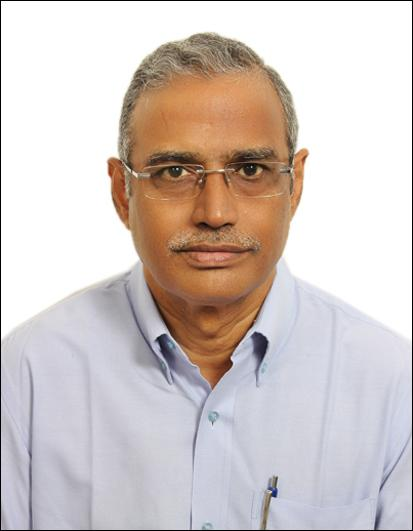
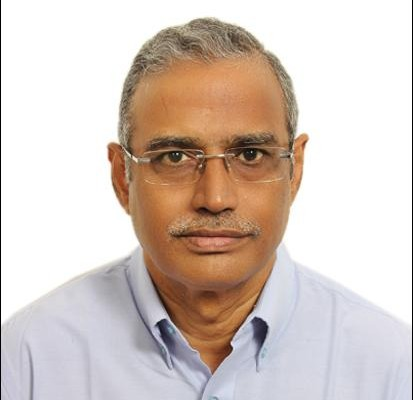
image and email corrections

diff --git a/src/app/shared/footer/footer.component.html b/src/app/shared/footer/footer.component.html
@@ -3,7 +3,7 @@
     <div>
       <h3>Nandamuri Basavarama Tarakam NTR Charitable Trust</h3>
       <p>Working towards education, healthcare, and community welfare.</p>
-      <p><strong>Email:</strong> <a href="mailto:nbtrncharitabletrust&#64;gmail.com">nbtrncharitabletrust&#64;gmail.com</a></p>
+      <p><strong>Email:</strong> <a href="mailto:nbrntrcharitabletrust&#64;gmail.com">nbrntrcharitabletrust&#64;gmail.com</a></p>
       <p><strong>Phone:</strong> <a href="tel:+918019549236">+91 80195 49236</a></p>
     </div>
 
